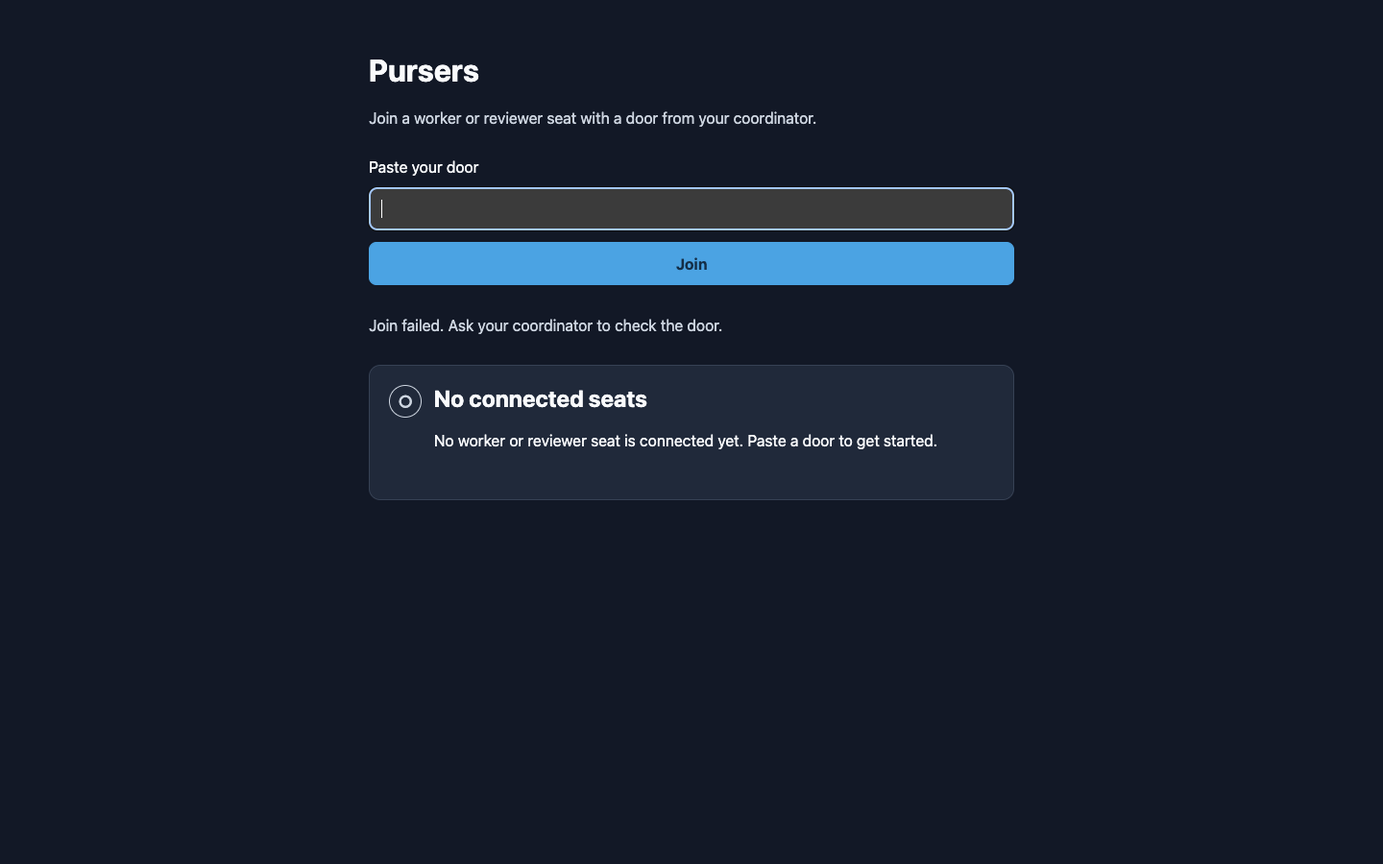
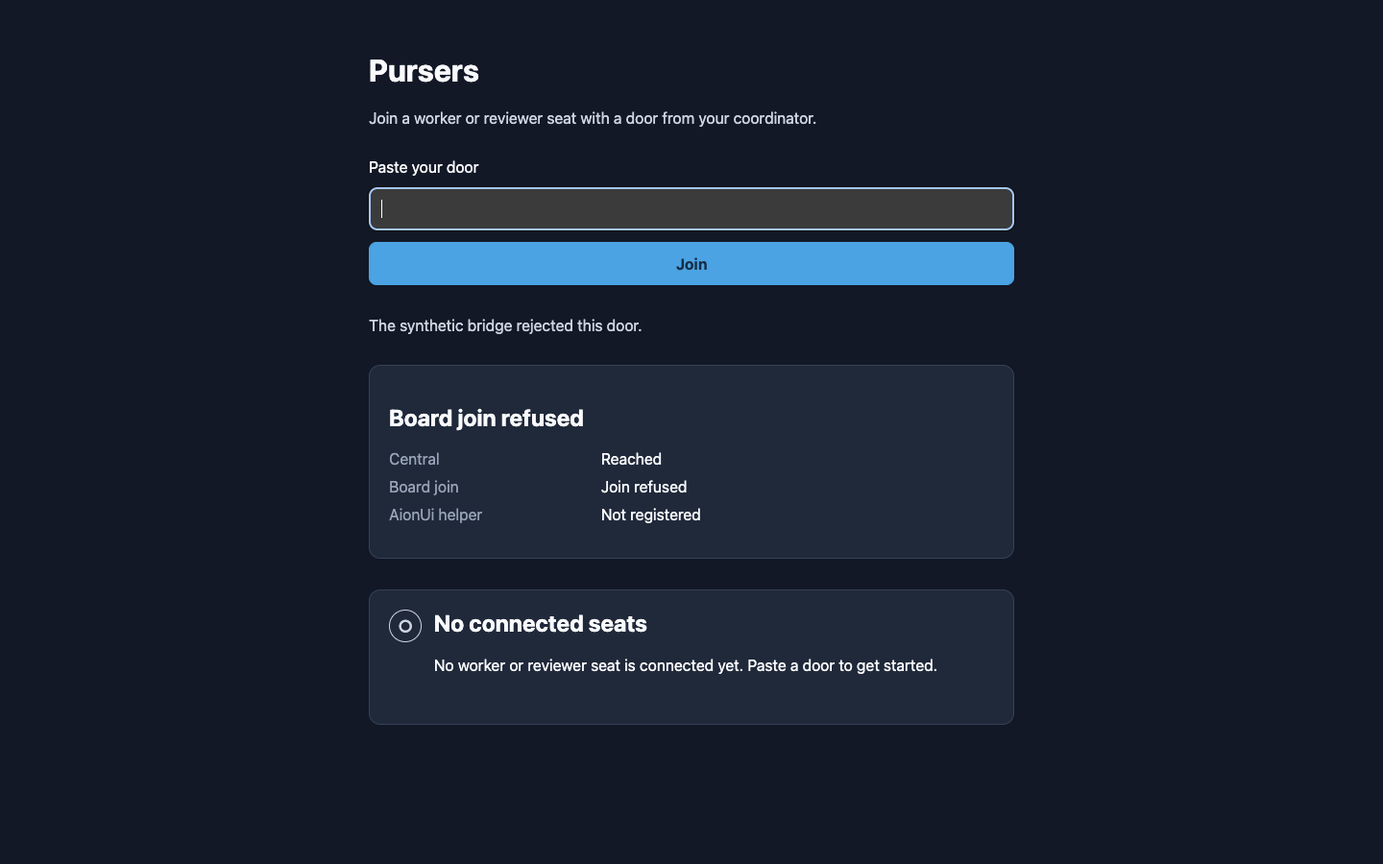
docs: add reproducible ego acceptance replay

diff --git a/docs/ux-audit-visual/README.md b/docs/ux-audit-visual/README.md
@@ -2,12 +2,13 @@
 
 Ticket: `TK-ab876afbb077`
 
-Final tested source: `origin/main@d95cc6ebe9ac962e895947d000fe20c0a682ae0a`
+Final tested source: `origin/main@4f121318473db2652dfc9756357c13db8401f7c5`
 
 The initial full pass ran at
 `2cdf414c8ac19a22bae5a23da97ca702ad7daa68`. During submission preflight,
 `origin/main` advanced to the final source above with Fleet search and Personal
-work-state changes. The branch was fast-forwarded, those affected browser
+work-state changes. Before resubmission, `origin/main` advanced again with AionUi
+connection-state changes. The branch was rebased, those affected browser
 assertions and screenshots were rerun, and the intervening diff was checked to
 confirm that the other captured paths were unaffected.
 
@@ -32,7 +33,327 @@ acceptance observations for independent review, not verifier-owned acceptance.
 The viewport screenshots are exact CSS widths of 400 or 1,440 pixels. The
 keyboard-only checks used Ego Lite keyboard input. The zoom check used a 400 px
 viewport with `Emulation.setPageScaleFactor` set to `2`; Ego reported
-`visualViewport.scale=2` and a 200 px visual viewport.
+`visualViewport.scale=2`. After the AionUi connection-state update, the
+overflowing page reduced the reported visual viewport to 192.5 CSS px.
+
+## Exact replay command
+
+Run the following command from the root of the tested checkout. It reads the
+committed Fleet, Personal, and AionUi assets, starts one loopback-only synthetic
+fixture server, creates one Ego Lite TaskSpace, and replays all eight rows. The
+fixture routes and every response payload are literal in the command. It does
+not invoke a production board client, wait bridge, token, door, or browser other
+than Ego Lite.
+
+```sh
+sed -e "s|__ROOT__|$PWD|g" -e "s|__PYTHON__|$(command -v python3)|g" <<'NODE' | "/Applications/ego lite.app/Contents/Frameworks/ego Framework.framework/Versions/Current/Helpers/ego-browser" nodejs
+const http = await import("node:http");
+const fs = await import("node:fs/promises");
+const { execFileSync } = await import("node:child_process");
+
+const root = "__ROOT__";
+const port = 30141;
+const base = `http://127.0.0.1:${port}`;
+const personalHtml = await fs.readFile(
+  `${root}/packages/personal/src/pursers_personal/resources/dashboard.html`, "utf8",
+);
+const aionIndex = await fs.readFile(`${root}/tools/aionui-extension/webui/index.html`, "utf8");
+const aionCss = await fs.readFile(`${root}/tools/aionui-extension/webui/style.css`, "utf8");
+const aionJs = await fs.readFile(`${root}/tools/aionui-extension/webui/app.js`, "utf8");
+const fleetHtml = execFileSync(
+  "__PYTHON__",
+  ["-c", "import sys; sys.path.insert(0, 'tools/fleet-dashboard'); import fleet_dashboard; print(fleet_dashboard.HTML, end='')"],
+  { cwd: root, encoding: "utf8", maxBuffer: 16 * 1024 * 1024 },
+);
+
+let fleetMode = "populated";
+let personalScenario = "rich";
+let personalTheme = "dark";
+let aionScenario = "empty";
+const longBoard = "Board with a deliberately long synthetic title that must wrap without widening the page";
+const longTicket = "Ticket with a deliberately long synthetic title that must remain inside its bounded table container";
+
+const fleet = {
+  central: "fixture",
+  generated_at: "2030-01-02T12:00:00Z",
+  pool_summary: { online: 2, busy: 1, available: 1, stale: 0 },
+  boards: [{
+    label: longBoard,
+    board_id: "board-long",
+    counts: { open: 1, claimed: 1, submitted: 1, closed_today: 0 },
+    tickets: [
+      { id: "TK-long", title: longTicket, description: "Synthetic replay row", status: "open", updated_at: "2030-01-02T11:00:00Z" },
+      { id: "TK-work", title: "Claimed replay ticket", description: "Synthetic replay row", status: "claimed", claimed_by: "worker-replay", updated_at: "2030-01-02T11:01:00Z" },
+      { id: "TK-review", title: "Submitted replay ticket", description: "Synthetic replay row", status: "submitted", claimed_by: "worker-replay", updated_at: "2030-01-02T11:02:00Z" },
+    ],
+    coordinator_heartbeat: "2030-01-02T11:59:00Z",
+    coordinator_findings: { items: [], truncated_count: 0 },
+  }],
+  agents: [
+    {
+      agent_name: "worker-replay", pool_status: "busy", boards: ["board-long"],
+      last_seen: "2030-01-02T11:59:00Z", duplicate_name: false,
+      seats: [{ board_id: "board-long", project: longBoard, role: "worker", current_ticket_id: "TK-work", current_ticket_title: "Claimed replay ticket", last_seen: "2030-01-02T11:59:00Z" }],
+    },
+    {
+      agent_name: "reviewer-replay", pool_status: "available", boards: ["board-long"],
+      last_seen: "2030-01-02T11:58:00Z", duplicate_name: false,
+      seats: [{ board_id: "board-long", project: longBoard, role: "reviewer", current_ticket_id: null, current_ticket_title: null, last_seen: "2030-01-02T11:58:00Z" }],
+    },
+  ],
+  inactive_agents: [],
+};
+
+const boardDetail = {
+  central: "fixture", generated_at: "2030-01-02T12:00:00Z",
+  board: { label: longBoard, board_id: "board-long" },
+  tickets: fleet.boards[0].tickets.map((ticket) => ({
+    ...ticket, required_fields: [], latest_submission_summary: null,
+    review_label: null, annotations: [], annotations_omitted_count: 0,
+  })),
+  ticket_returned: 3, ticket_total: 3, truncated: false,
+  events: [], timeline: [], event_returned: 0,
+  ticket_flow: { open: ["TK-long"], claimed: ["TK-work"], submitted: ["TK-review"], closed_today: [] },
+  coordinator_findings: { items: [], truncated_count: 0 },
+  routes: { rows: [], seats: [], row_returned: 0, row_total: 0, truncated: false, truncation_note: "Complete synthetic replay window." },
+};
+
+const personalRich = {
+  contract_version: 2, data_mode: "live", fixture_provenance: "synthetic replay",
+  board: { id: "board-replay", name: "Replay Board" },
+  tickets: [
+    { id: "TK-open", project: "replay", title: "Open synthetic replay ticket", description: "Fixture", status: "open", priority: "medium", assigned_to: null, assigned_agent_id: null, claimed_agent_id: null, lease_expires_at: null, review_offer: false, review_lease: false, ttl_s: 900, rejected: false, abandoned_count: 0, rejection_count: 0, created_at: "2030-01-02T10:00:00Z", updated_at: "2030-01-02T10:00:00Z", submitted_at: null, closed_at: null },
+    { id: "TK-work", project: "replay", title: "Working synthetic replay ticket", description: "Fixture", status: "claimed", priority: "high", assigned_to: "worker-replay", assigned_agent_id: "AI-worker", claimed_agent_id: "AI-worker", lease_expires_at: "2030-01-02T13:00:00Z", review_offer: false, review_lease: false, ttl_s: 900, rejected: false, abandoned_count: 0, rejection_count: 0, created_at: "2030-01-02T10:00:00Z", updated_at: "2030-01-02T10:01:00Z", submitted_at: null, closed_at: null },
+    { id: "TK-review", project: "replay", title: "Review synthetic replay ticket", description: "Fixture", status: "submitted", priority: "medium", assigned_to: "reviewer-replay", assigned_agent_id: "AI-reviewer", claimed_agent_id: "AI-worker", lease_expires_at: null, review_offer: true, review_lease: false, ttl_s: 900, rejected: false, abandoned_count: 0, rejection_count: 0, created_at: "2030-01-02T10:00:00Z", updated_at: "2030-01-02T10:02:00Z", submitted_at: "2030-01-02T10:02:00Z", closed_at: null },
+  ],
+  agents: [
+    { id: "AI-worker", project: "replay", current_ticket_id: "TK-work", current_ticket: null, duplicate: false, duplicate_name: false, suggested_name: null, name: "worker-replay", status: "working", role: "worker", idle_minutes: 1, focus: "Replay fixture", platform: "synthetic", last_activity_at: "2030-01-02T11:59:00Z", lease_expires_at: "2030-01-02T13:00:00Z", stale: false },
+    { id: "AI-reviewer", project: "replay", current_ticket_id: "TK-review", current_ticket: null, duplicate: false, duplicate_name: false, suggested_name: null, name: "reviewer-replay", status: "idle", role: "reviewer", idle_minutes: 2, focus: "Replay fixture", platform: "synthetic", last_activity_at: "2030-01-02T11:58:00Z", lease_expires_at: null, stale: false },
+  ],
+  highlights: { latest_handoff: null, important_pinned: null },
+  status: { ticket_status_counts: { open: 1, claimed: 1, submitted: 1 }, memory_type_counts: {}, visible_memory_count: 0, scrub_profile: "synthetic" },
+  ticket_total: 3, ticket_truncated: false, agent_total: 2, agents_live: 2,
+  agent_truncated: false, events: [], event_cursor: 0, dropped_events: 0,
+  has_more: false, connected: true, stale: false, feed_error: null,
+  resync_notice: null, activity_scope: "local-model-tools", latest_seq: 0,
+  snapshot_at: "2030-01-02T12:00:00Z",
+};
+const personalEmpty = {
+  ...personalRich, tickets: [], agents: [], ticket_total: 0, agent_total: 0,
+  agents_live: 0, status: { ticket_status_counts: {}, memory_type_counts: {}, visible_memory_count: 0, scrub_profile: "synthetic" },
+};
+const personalError = {
+  ...personalRich, data_mode: "demo-error", connected: false, stale: true,
+  feed_error: "Synthetic replay error", activity_scope: "synthetic-demo",
+};
+const fleetProjection = {
+  schema_version: 1, projects: [{ name: "Replay", board_id: "board-replay", status: "active", tickets_open: 1, tickets_claimed: 1, tickets_submitted: 1 }],
+  pool: [{ agent_name: "worker-replay", principal_id: "PR-synthetic", pool_status: "busy", seats: [{ project: "Replay", board_id: "board-replay", current_ticket_id: "TK-work", live: true }] }],
+  totals: { agents: 1, busy: 1, available: 0, stale: 0 }, registry_warning: null,
+};
+const linkProjection = {
+  schema_version: 1, source_tool: "memory_links", relationship_authority: "authoritative",
+  nodes: [], edges: [], returned_node_count: 0, returned_edge_count: 0,
+  node_count: 0, edge_count: 0, truncated: false,
+};
+
+function personalHost() {
+  const snapshot = personalScenario === "empty" ? personalEmpty : personalScenario === "error" ? personalError : personalRich;
+  const variables = personalTheme === "dark"
+    ? { "--color-background-primary": "#111827", "--color-text-primary": "#f9fafb" }
+    : { "--color-background-primary": "#f8fafc", "--color-text-primary": "#172033" };
+  return `<!doctype html><meta charset="utf-8"><style>html,body,iframe{margin:0;width:100%;height:100%;border:0}</style><iframe id="app" src="/personal"></iframe><script>
+const protocolLog=[]; const snapshot=${JSON.stringify(snapshot)}; const fleet=${JSON.stringify(fleetProjection)}; const links=${JSON.stringify(linkProjection)};
+addEventListener("message",event=>{const message=event.data; if(!message||message.jsonrpc!=="2.0")return; protocolLog.push({method:message.method,id:message.id,params:message.params});
+if(message.method==="ui/initialize") event.source.postMessage({jsonrpc:"2.0",id:message.id,result:{protocolVersion:"2026-01-26",hostInfo:{name:"Synthetic Replay Host",version:"1.0.0"},hostCapabilities:{serverTools:{}},hostContext:{theme:${JSON.stringify(personalTheme)},styles:{variables:${JSON.stringify(variables)}}}}},"*");
+else if(message.method==="tools/call"){const name=message.params.name; const value=name==="fleet_snapshot"?fleet:name==="link_snapshot"?links:snapshot; event.source.postMessage({jsonrpc:"2.0",id:message.id,result:{content:[{type:"text",text:JSON.stringify(value)}],structuredContent:value}},"*");}}
+);</script>`;
+}
+
+function json(res, status, value) {
+  res.writeHead(status, { "content-type": "application/json; charset=utf-8", "cache-control": "no-store" });
+  res.end(JSON.stringify(value));
+}
+const server = http.createServer(async (req, res) => {
+  const url = new URL(req.url, base);
+  if (url.pathname === "/fixture/fleet") { fleetMode = url.searchParams.get("mode") || "populated"; return json(res, 200, { ok: true, fleetMode }); }
+  if (url.pathname === "/fixture/personal") { personalScenario = url.searchParams.get("state") || "rich"; personalTheme = url.searchParams.get("theme") || "dark"; return json(res, 200, { ok: true, personalScenario, personalTheme }); }
+  if (url.pathname === "/fixture/aion") { aionScenario = url.searchParams.get("state") || "empty"; return json(res, 200, { ok: true, aionScenario }); }
+  if (url.pathname === "/fleet") { res.writeHead(200, { "content-type": "text/html; charset=utf-8" }); return res.end(fleetHtml); }
+  if (url.pathname === "/api/centrals") return json(res, 200, { centrals: ["fixture"], default: "fixture" });
+  if (url.pathname === "/api/fleet") return fleetMode === "disconnected" ? json(res, 503, { error: "synthetic disconnect" }) : json(res, 200, fleet);
+  if (url.pathname === "/api/board/board-long") return json(res, 200, boardDetail);
+  if (url.pathname === "/api/intake") return json(res, 200, { waiting: [], declined: [], expected_sha256: "synthetic" });
+  if (url.pathname === "/api/workers") return json(res, 200, { workers: [], roles: ["worker", "reviewer"], presets: { custom: { label: "Custom", base_url: "http://127.0.0.1:1", requires_key: false } } });
+  if (url.pathname === "/api/overhead") return json(res, 200, { central: "fixture", sessions: [], model_wait: [], seats: [], source_status: "synthetic" });
+  if (url.pathname === "/api/attention") return json(res, 200, { items: {} });
+  if (url.pathname === "/api/config/seats") return json(res, 200, { seats: [] });
+  if (url.pathname === "/api/config/bridge") return json(res, 200, { installed: true, version: "synthetic", status: "ready" });
+  if (url.pathname === "/api/config/release") return json(res, 200, { latest_tag: null, product_version: "synthetic" });
+  if (url.pathname === "/api/config/registry") return json(res, 200, { boards: [{ board_id: "board-long", label: longBoard, seat_coverage: 2, configured_seats: 2 }], seats: {}, read_only: true });
+  if (url.pathname === "/api/dispatch") return json(res, 200, { board_id: "board-long", policy: { claim_ttl_s: 900, offer_ttl_s: 180, broadcast_reoffer_s: 60, second_opinion: true, fallback_broadcast: true } });
+  if (url.pathname === "/personal-host") { res.writeHead(200, { "content-type": "text/html; charset=utf-8" }); return res.end(personalHost()); }
+  if (url.pathname === "/personal") { res.writeHead(200, { "content-type": "text/html; charset=utf-8" }); return res.end(personalHtml); }
+  if (url.pathname === "/pursers") { res.writeHead(200, { "content-type": "text/html; charset=utf-8" }); return res.end(aionIndex); }
+  if (url.pathname === "/pursers/assets/style.css") { res.writeHead(200, { "content-type": "text/css" }); return res.end(aionCss); }
+  if (url.pathname === "/pursers/assets/app.js") { res.writeHead(200, { "content-type": "text/javascript" }); return res.end(aionJs); }
+  if (url.pathname === "/pursers/status") {
+    if (aionScenario === "bridge") return json(res, 503, { ok: false, error: "bridge_not_installed", install_hint: "Install the synthetic replay bridge." });
+    if (aionScenario === "success") return json(res, 200, { ok: true, push_mode: "push", seats: [{ board: "board-replay", role: "worker", seat_names: ["worker-replay"], push_mode: "push", kid: "kid-replay", exp: 1893456000 }] });
+    return json(res, 200, { ok: true, push_mode: "push", seats: [] });
+  }
+  if (url.pathname === "/pursers/join" && req.method === "POST") {
+    let body = ""; for await (const chunk of req) body += chunk;
+    const door = JSON.parse(body).door;
+    if (door === "invalid") return json(res, 400, { ok: false, error: "invalid_door" });
+    if (door === "rejected") return json(res, 422, { ok: false, error: "bridge_rejected", message: "The synthetic bridge rejected this door." });
+    if (door === "partial") return json(res, 502, {
+      ok: false, error: "mcp_registration_failed", code: "mcp_registration_failed",
+      outcome: "partial", joined: true,
+      message: "The synthetic seat connected, but registration failed.",
+      status: { board: "board-replay", role: "worker", seat_name: "worker-replay", push_mode: "push", kid: "kid-replay", exp: 1893456000 },
+    });
+    aionScenario = "success";
+    return json(res, 200, { ok: true, mcp_server: "pursers-replay", imported: true, status: { board: "board-replay", role: "worker", seat_names: ["worker-replay"], push_mode: "push", kid: "kid-replay", exp: 1893456000 } });
+  }
+  json(res, 404, { ok: false, error: "not_found", route: url.pathname });
+});
+await new Promise((resolve) => server.listen(port, "127.0.0.1", resolve));
+
+const task = await taskSpace("TK-ab876afbb077 exact replay");
+const page = task.page("p1");
+const outputs = [];
+const setViewport = async (width, height = 900) => page.cdp("Emulation.setDeviceMetricsOverride", { width, height, deviceScaleFactor: 1, mobile: false });
+const setFixture = async (path) => { const response = await fetch(`${base}${path}`); if (!response.ok) throw new Error(`fixture setup failed: ${path}`); };
+const waitText = async (text) => page.waitForFunction((needle) => document.body.innerText.includes(needle), text, { timeout: 10000 });
+const directLayout = () => ({ width: innerWidth, scrollWidth: document.documentElement.scrollWidth, overflow: document.documentElement.scrollWidth > innerWidth });
+const personal = (fn) => page.evaluate((source) => {
+  const frame = document.querySelector("iframe");
+  return Function("window", "document", `return (${source})()`)(frame.contentWindow, frame.contentDocument);
+}, fn.toString());
+const record = (row, surface, status, observed) => outputs.push({ row, surface, status, observed });
+
+await setFixture("/fixture/fleet?mode=disconnected");
+const disconnected = [];
+for (const width of [400, 1440]) {
+  await setViewport(width); await page.goto(`${base}/fleet?replay=disconnected-${width}#/`); await waitText("HTTP 503");
+  disconnected.push(await page.evaluate(() => ({ ...({ width: innerWidth, scrollWidth: document.documentElement.scrollWidth, overflow: document.documentElement.scrollWidth > innerWidth }), state: document.querySelector("#state").textContent, banner: document.querySelector("#connection-banner").textContent.trim(), centralError: document.querySelector(".health-card .error")?.textContent || null })));
+}
+record(1, "Fleet disconnected", "FAIL", disconnected);
+
+await setFixture("/fixture/fleet?mode=populated");
+const boards = [];
+for (const width of [400, 1440]) {
+  await setViewport(width); await page.goto(`${base}/fleet?replay=boards-${width}#/boards`); await waitText(longBoard);
+  const hub = await page.evaluate(directLayout);
+  await page.goto(`${base}/fleet?replay=workspace-${width}#/central/fixture/board/board-long/tickets`); await waitText(longTicket);
+  const workspace = await page.evaluate(() => ({ ...({ width: innerWidth, scrollWidth: document.documentElement.scrollWidth, overflow: document.documentElement.scrollWidth > innerWidth }), tableClientWidth: document.querySelector(".table-scroll").clientWidth, tableScrollWidth: document.querySelector(".table-scroll").scrollWidth }));
+  boards.push({ width, hub, workspace });
+}
+record(2, "Fleet Boards/workspace", "PASS", boards);
+
+const fleetSurfaces = {};
+for (const route of ["agents", "operations", "seats"]) {
+  fleetSurfaces[route] = [];
+  for (const width of [400, 1440]) {
+    await setViewport(width); await page.goto(`${base}/fleet?replay=${route}-${width}#/${route}`); await waitText(route === "agents" ? "Unified agent pool" : route === "operations" ? "Guardrails" : "Seats and dispatch");
+    fleetSurfaces[route].push(await page.evaluate(directLayout));
+  }
+}
+await setViewport(400);
+await page.goto(`${base}/fleet?replay=agent-modal#/agents`); await waitText("Unified agent pool"); await page.click("#new-agent");
+fleetSurfaces.modal = await page.evaluate(() => ({ ...({ width: innerWidth, scrollWidth: document.documentElement.scrollWidth, overflow: document.documentElement.scrollWidth > innerWidth }), open: document.querySelector("#agent-dialog").open, dialogWidth: document.querySelector("#agent-dialog").getBoundingClientRect().width, idleCopy: document.body.innerText.includes("ว่าง/idle") }));
+record(3, "Fleet Agents/Operations/Config", "FAIL", fleetSurfaces);
+
+await page.press("#agent-dialog .dialog-close", "Enter");
+await page.keyboard.press("/"); await page.fill("#filter", "TK-long"); await page.keyboard.press("ArrowDown");
+const searchBeforeEnter = await page.evaluate(() => ({ active: document.activeElement.id, expanded: document.querySelector("#filter").getAttribute("aria-expanded"), controls: document.querySelector("#filter").getAttribute("aria-controls"), descendant: document.querySelector("#filter").getAttribute("aria-activedescendant") }));
+await page.keyboard.press("Enter"); await page.waitForTimeout(100);
+const searchAfterEnter = await page.evaluate(() => ({ hash: location.hash, expanded: document.querySelector("#filter").getAttribute("aria-expanded"), resultsHidden: document.querySelector("#search-results").hidden }));
+await page.keyboard.press("Escape"); await page.press("#help-toggle", "?");
+const help = await page.evaluate(() => { const dialog = document.querySelector("#help-overlay"); return { open: dialog.open, ariaLabel: dialog.getAttribute("aria-label"), ariaLabelledby: dialog.getAttribute("aria-labelledby") }; });
+await page.keyboard.press("Tab");
+const helpAfterTab = await page.evaluate(() => ({ activeTag: document.activeElement.tagName, activeId: document.activeElement.id, insideDialog: document.querySelector("#help-overlay").contains(document.activeElement), nonActionableTabRows: [...document.querySelectorAll("tr[tabindex='0']")].length }));
+await page.keyboard.press("Escape");
+record(4, "Fleet search/help keyboard", "FAIL", { searchBeforeEnter, searchAfterEnter, help, helpAfterTab });
+
+const personalStates = [];
+for (const item of [{ state: "rich", theme: "dark", width: 400 }, { state: "rich", theme: "light", width: 1440 }, { state: "empty", theme: "light", width: 400 }, { state: "error", theme: "dark", width: 1440 }]) {
+  await setFixture(`/fixture/personal?state=${item.state}&theme=${item.theme}`); await setViewport(item.width); await page.goto(`${base}/personal-host?state=${item.state}&theme=${item.theme}&width=${item.width}`);
+  await page.waitForFunction(() => document.querySelector("iframe")?.contentDocument?.body?.dataset.renderState !== "loading", undefined, { timeout: 10000 });
+  await personal(() => { document.querySelector("#tab-work").click(); return true; });
+  personalStates.push(await personal(() => ({ width: innerWidth, scrollWidth: document.documentElement.scrollWidth, overflow: document.documentElement.scrollWidth > innerWidth, renderState: document.body.dataset.renderState, selected: document.querySelector("[role=tab][aria-selected=true]").id, groups: [...document.querySelectorAll(".work-group>h3")].map((node) => node.textContent.trim()), background: getComputedStyle(document.documentElement).getPropertyValue("--color-background-primary").trim(), text: getComputedStyle(document.documentElement).getPropertyValue("--color-text-primary").trim() })));
+}
+const protocol = await page.evaluate(() => protocolLog.filter((item) => item.method === "ui/initialize" || item.method === "tools/call").map((item) => ({ method: item.method, tool: item.params?.name || null })));
+record(5, "Personal states and host theme", "PASS", { states: personalStates, protocol });
+
+await setFixture("/fixture/personal?state=rich&theme=dark"); await setViewport(400); await page.goto(`${base}/personal-host?state=rich&theme=dark&keyboard=1`);
+await page.waitForFunction(() => document.querySelector("iframe")?.contentDocument?.body?.dataset.renderState === "live", undefined, { timeout: 10000 });
+await page.click("#tab-today");
+await personal(() => { document.querySelector(".skip-link").focus(); return true; });
+const skipBefore = await personal(() => ({ active: document.activeElement.className, href: document.activeElement.getAttribute("href") }));
+await page.keyboard.press("Enter");
+const skip = { before: skipBefore, after: await personal(() => ({ active: document.activeElement.id, hash: location.hash })) };
+await page.click("#tab-activity"); await page.keyboard.press("Home"); const afterHome = await personal(() => ({ active: document.activeElement.id, selected: document.querySelector("[role=tab][aria-selected=true]").id }));
+await page.keyboard.press("ArrowRight"); const afterArrow = await personal(() => ({ active: document.activeElement.id, selected: document.querySelector("[role=tab][aria-selected=true]").id }));
+await page.keyboard.press("End"); const afterEnd = await personal(() => ({ active: document.activeElement.id, selected: document.querySelector("[role=tab][aria-selected=true]").id }));
+await page.press("#tab-today", "/"); await page.fill("#global-search", "Review synthetic");
+const searchA11y = await personal(() => { const input = document.querySelector("#global-search"); return { active: document.activeElement.id, controls: input.getAttribute("aria-controls"), expanded: input.getAttribute("aria-expanded"), resultCount: document.querySelectorAll(".search-result").length }; });
+await page.press(".search-result", "Enter");
+const activated = await personal(() => ({ selected: document.querySelector("[role=tab][aria-selected=true]").id, searchValue: document.querySelector("#global-search").value }));
+await personal(() => { document.querySelector("#global-search").focus(); return true; }); await page.keyboard.type("x"); await page.keyboard.press("Escape");
+const escaped = await personal(() => ({ value: document.querySelector("#global-search").value, hidden: document.querySelector("#search-results").hidden }));
+record(6, "Personal keyboard", "PASS", { skip, afterArrow, afterEnd, afterHome, searchA11y, activated, escaped });
+
+const aionStates = [];
+for (const state of ["empty", "bridge"]) {
+  await setFixture(`/fixture/aion?state=${state}`); await setViewport(state === "empty" ? 400 : 1440); await page.goto(`${base}/pursers?state=${state}`); await page.waitForSelector("#status-card:not([hidden])");
+  aionStates.push(await page.evaluate(() => ({ title: document.querySelector("#status-title").textContent, message: document.querySelector("#status-summary").textContent, connectionTitle: document.querySelector("#connection-card:not([hidden]) #connection-title")?.textContent || null, ...({ width: innerWidth, scrollWidth: document.documentElement.scrollWidth, overflow: document.documentElement.scrollWidth > innerWidth }) })));
+  await page.screenshot({ path: `${root}/docs/ux-audit-visual/${state === "empty" ? "20-aion-empty-400.png" : "21-aion-bridge-missing-1440.png"}`, fullPage: true });
+}
+for (const [door, width, shot] of [["invalid", 400, "22-aion-invalid-door-400.png"], ["rejected", 1440, "23-aion-request-rejected-1440.png"], ["partial", 400, "24-aion-partial-join-400.png"], ["success", 1440, "25-aion-success-1440.png"]]) {
+  await setFixture("/fixture/aion?state=empty"); await setViewport(width); await page.goto(`${base}/pursers?door=${door}&width=${width}`); await page.fill("#door", door); await page.press("#door", "Enter");
+  await page.waitForFunction(() => document.querySelector("#message").textContent !== "Joining…", undefined, { timeout: 10000 });
+  aionStates.push(await page.evaluate(() => ({ door: document.querySelector("#door").value, message: document.querySelector("#message").textContent, title: document.querySelector("#status-title").textContent, connectionTitle: document.querySelector("#connection-card:not([hidden]) #connection-title")?.textContent || null, recoverVisible: !document.querySelector("#recover").hidden, cards: document.querySelectorAll(".seat-card").length, ...({ width: innerWidth, scrollWidth: document.documentElement.scrollWidth, overflow: document.documentElement.scrollWidth > innerWidth }) })));
+  await page.screenshot({ path: `${root}/docs/ux-audit-visual/${shot}`, fullPage: true });
+}
+record(7, "AionUi states", "FAIL", aionStates);
+
+await setFixture("/fixture/aion?state=empty"); await setViewport(400); await page.goto(`${base}/pursers?keyboard=1`);
+await page.evaluate(() => { document.body.tabIndex = -1; document.body.focus(); });
+const tabOrder = [];
+for (let index = 0; index < 4; index += 1) { await page.keyboard.press("Tab"); tabOrder.push(await page.evaluate(() => document.activeElement.id || document.activeElement.tagName)); }
+await page.focus("#door"); await page.fill("#door", "success"); await page.keyboard.press("Enter"); await page.waitForFunction(() => document.querySelector("#message").textContent.startsWith("Joined and registered"), undefined, { timeout: 10000 });
+const focus = await page.evaluate(() => ({ active: document.activeElement.id, doorValue: document.querySelector("#door").value, ariaBusy: document.querySelector("#join-form").getAttribute("aria-busy") }));
+await page.cdp("Emulation.setPageScaleFactor", { pageScaleFactor: 2 });
+const zoom = await page.evaluate(() => ({ layoutWidth: innerWidth, visualWidth: visualViewport.width, scale: visualViewport.scale, scrollWidth: document.documentElement.scrollWidth, statusWidth: document.querySelector("#status-card").getBoundingClientRect().width, overflow: document.documentElement.scrollWidth > innerWidth }));
+await page.screenshot({ path: `${root}/docs/ux-audit-visual/26-aion-success-400-zoom200.png`, fullPage: true });
+await page.cdp("Emulation.setPageScaleFactor", { pageScaleFactor: 1 });
+record(8, "AionUi keyboard and 200% zoom", "FAIL", { tabOrder, focus, zoom });
+
+for (const output of outputs) console.log(`test-output: row ${output.row} ${JSON.stringify(output)}`);
+console.log(`test-output: summary ${JSON.stringify(outputs.map(({ row, status }) => ({ row, status })))}`);
+await task.finish({ keep: [] });
+server.closeAllConnections();
+process.exit(0);
+NODE
+```
+
+The executable output recorded at the final report SHA appears below. Each line
+is emitted from the observed product DOM or MCP Apps protocol log; the script
+does not build observations from the expected row result.
+
+```text
+test-output: row 1 {"row":1,"surface":"Fleet disconnected","status":"FAIL","observed":[{"width":400,"scrollWidth":400,"overflow":false,"state":"Connecting to centrals…","banner":"reconnecting… last success never","centralError":"HTTP 503"},{"width":1440,"scrollWidth":1440,"overflow":false,"state":"Connecting to centrals…","banner":"reconnecting… last success never","centralError":"HTTP 503"}]}
+test-output: row 2 {"row":2,"surface":"Fleet Boards/workspace","status":"PASS","observed":[{"width":400,"hub":{"width":400,"scrollWidth":400,"overflow":false},"workspace":{"width":400,"scrollWidth":385,"overflow":false,"tableClientWidth":327,"tableScrollWidth":327}},{"width":1440,"hub":{"width":1440,"scrollWidth":1440,"overflow":false},"workspace":{"width":1440,"scrollWidth":1425,"overflow":false,"tableClientWidth":1087,"tableScrollWidth":1087}}]}
+test-output: row 3 {"row":3,"surface":"Fleet Agents/Operations/Config","status":"FAIL","observed":{"agents":[{"width":400,"scrollWidth":400,"overflow":false},{"width":1440,"scrollWidth":1440,"overflow":false}],"operations":[{"width":400,"scrollWidth":400,"overflow":false},{"width":1440,"scrollWidth":1440,"overflow":false}],"seats":[{"width":400,"scrollWidth":385,"overflow":false},{"width":1440,"scrollWidth":1425,"overflow":false}],"modal":{"width":400,"scrollWidth":400,"overflow":false,"open":true,"dialogWidth":360,"idleCopy":true}}}
+test-output: row 4 {"row":4,"surface":"Fleet search/help keyboard","status":"FAIL","observed":{"searchBeforeEnter":{"active":"filter","expanded":"true","controls":"search-results","descendant":"search-option-0"},"searchAfterEnter":{"hash":"#/central/fixture/board/board-long/tickets?ticket=TK-long","expanded":"true","resultsHidden":false},"help":{"open":true,"ariaLabel":null,"ariaLabelledby":null},"helpAfterTab":{"activeTag":"BODY","activeId":"","insideDialog":false,"nonActionableTabRows":1}}}
+test-output: row 5 {"row":5,"surface":"Personal states and host theme","status":"PASS","observed":{"states":[{"width":400,"scrollWidth":370,"overflow":false,"renderState":"live","selected":"tab-work","groups":["Open1","Working1","In review1"],"background":"#111827","text":"#f9fafb"},{"width":1440,"scrollWidth":1410,"overflow":false,"renderState":"live","selected":"tab-work","groups":["Open1","Working1","In review1"],"background":"#f8fafc","text":"#172033"},{"width":400,"scrollWidth":385,"overflow":false,"renderState":"live","selected":"tab-work","groups":[],"background":"#f8fafc","text":"#172033"},{"width":1440,"scrollWidth":1425,"overflow":false,"renderState":"demo-error","selected":"tab-work","groups":["Working1","In review1"],"background":"#111827","text":"#f9fafb"}],"protocol":[{"method":"ui/initialize","tool":null},{"method":"tools/call","tool":"fleet_snapshot"},{"method":"tools/call","tool":"link_snapshot"},{"method":"tools/call","tool":"board_event_feed"}]}}
+test-output: row 6 {"row":6,"surface":"Personal keyboard","status":"PASS","observed":{"skip":{"before":{"active":"skip-link","href":"#main-content"},"after":{"active":"","hash":""}},"afterArrow":{"active":"tab-work","selected":"tab-work"},"afterEnd":{"active":"tab-activity","selected":"tab-activity"},"afterHome":{"active":"tab-today","selected":"tab-today"},"searchA11y":{"active":"global-search","controls":null,"expanded":null,"resultCount":1},"activated":{"selected":"tab-work","searchValue":""},"escaped":{"value":"","hidden":true}}}
+test-output: row 7 {"row":7,"surface":"AionUi states","status":"FAIL","observed":[{"title":"No connected seats","message":"No worker or reviewer seat is connected yet. Paste a door to get started.","connectionTitle":null,"width":400,"scrollWidth":400,"overflow":false},{"title":"Wait bridge missing","message":"Install the synthetic replay bridge.","connectionTitle":"Local helper unavailable","width":1440,"scrollWidth":1440,"overflow":false},{"door":"","message":"Join failed. Ask your coordinator to check the door.","title":"No connected seats","connectionTitle":null,"recoverVisible":false,"cards":0,"width":400,"scrollWidth":400,"overflow":false},{"door":"","message":"The synthetic bridge rejected this door.","title":"No connected seats","connectionTitle":"Board join refused","recoverVisible":false,"cards":0,"width":1440,"scrollWidth":1440,"overflow":false},{"door":"","message":"Your seat is stored. Recover registers the helper without asking for the door again.","title":"1 connected seat","connectionTitle":"Connected; registration incomplete","recoverVisible":true,"cards":1,"width":400,"scrollWidth":407,"overflow":true},{"door":"","message":"Joined and registered pursers-replay.","title":"1 connected seat","connectionTitle":"Connected and registered","recoverVisible":false,"cards":1,"width":1440,"scrollWidth":1425,"overflow":false}]}
+test-output: row 8 {"row":8,"surface":"AionUi keyboard and 200% zoom","status":"FAIL","observed":{"tabOrder":["door","BUTTON","BODY","door"],"focus":{"active":"door","doorValue":"","ariaBusy":null},"zoom":{"layoutWidth":400,"visualWidth":192.5,"scale":2,"scrollWidth":407,"statusWidth":321,"overflow":true}}}
+test-output: summary [{"row":1,"status":"FAIL"},{"row":2,"status":"PASS"},{"row":3,"status":"FAIL"},{"row":4,"status":"FAIL"},{"row":5,"status":"PASS"},{"row":6,"status":"PASS"},{"row":7,"status":"FAIL"},{"row":8,"status":"FAIL"}]
+```
 
 ## Row-by-row results
 
@@ -44,8 +365,8 @@ viewport with `Emulation.setPageScaleFactor` set to `2`; Ego reported
 | Fleet global search and help — `/`, arrows, Enter, Escape, `?`, Tab/Shift+Tab, focus return | **FAIL** | `/`, arrow selection, Enter routing, Escape clearing, the `combobox` role, `aria-expanded`, `aria-controls`, `aria-activedescendant=search-option-1`, and focus return to the help opener worked on the final source. Enter routed to the ticket but the results overlay reopened because the query remained. The help dialog had neither `aria-labelledby` nor `aria-label`, and Tab moved out to the document body. One non-actionable ticket table row also had `tabIndex=0`. Evidence: [keyboard help](12-fleet-keyboard-help.png). |
 | Personal Today and Work — demo, demo-error, empty, rejected, active lease, in-review at 400/1440 | **PASS** | Demo, live empty, rejected, active lease, and error states remained contained at both widths. Light and dark host variables were applied exactly. On the final source, the `in_review` ticket rendered in a distinct `In review` group with its own count and explanatory copy. Evidence: [demo Today 400 px](13-personal-today-demo-400.png), [demo Work 1440 px](14-personal-work-demo-1440.png), [rich dark 400 px](15-personal-rich-dark-400.png), [rich light 1440 px](16-personal-rich-light-1440.png), [empty 400 px](17-personal-empty-400.png), [demo-error 1440 px](18-personal-demo-error-1440.png). |
 | Personal tabs and search — Arrow/Home/End, `/`, Escape, result activation, skip link | **PASS** | Skip link focused first and moved focus to `#main-content`. ArrowRight selected Work, End selected Activity, and Home returned to Today. `/` focused search, a result was keyboard-activated into Work, and Escape cleared and hid results. Accessibility follow-up: the search input still lacks `aria-controls` and `aria-expanded`. Evidence: [keyboard search](19-personal-keyboard-search.png). |
-| AionUi `/pursers` — empty, bridge missing, invalid door, rejected request, partial join, success at 400/1440 | **FAIL** | Empty, bridge-missing, and success states were distinct and contained. Invalid door, request rejection, and partial join all collapsed to `Join failed. Ask your coordinator to check the door.` The partial response (`joined: true`, MCP registration failed) left the card at `No connected seats`, hiding the durable partial connection. Evidence: [empty 400 px](20-aion-empty-400.png), [bridge missing 1440 px](21-aion-bridge-missing-1440.png), [invalid door 400 px](22-aion-invalid-door-400.png), [request rejected 1440 px](23-aion-request-rejected-1440.png), [partial join 400 px](24-aion-partial-join-400.png), [success 1440 px](25-aion-success-1440.png). |
-| AionUi Join/status — tab order, Enter submit, focus after error/success, 200% zoom | **FAIL** | Tab order was door → Join → document → door. Enter submitted from the door field, cleared the secret, and returned focus to the door after both error and success. The form exposed no `aria-busy` state while joining. At 200% zoom, the document widened to 407 CSS px in a 400 px layout viewport, while the 336 px status card exceeded the 200 px visual viewport; its definition list was clipped horizontally. Evidence: [success at 200%](26-aion-success-400-zoom200.png). |
+| AionUi `/pursers` — empty, bridge missing, invalid door, rejected request, partial join, success at 400/1440 | **FAIL** | Empty, bridge-missing, rejected, partial, and success states are now distinct: partial join exposes a Recover action and durable connected seat. Invalid-door feedback remains generic. The 400 px partial state widens the document to 407 CSS px, so the row still fails containment. Evidence: [empty 400 px](20-aion-empty-400.png), [bridge missing 1440 px](21-aion-bridge-missing-1440.png), [invalid door 400 px](22-aion-invalid-door-400.png), [request rejected 1440 px](23-aion-request-rejected-1440.png), [partial join 400 px](24-aion-partial-join-400.png), [success 1440 px](25-aion-success-1440.png). |
+| AionUi Join/status — tab order, Enter submit, focus after error/success, 200% zoom | **FAIL** | Tab order was door → Join → document → door. Enter submitted from the door field, cleared the secret, and returned focus to the door after both error and success. The form exposed no `aria-busy` state while joining. At 200% zoom, the document widened to 407 CSS px in a 400 px layout viewport, while the 321 px status card exceeded the 192.5 px visual viewport; its definition list was clipped horizontally. Evidence: [success at 200%](26-aion-success-400-zoom200.png). |
 
 Summary: **3 passed, 5 failed**.
 
